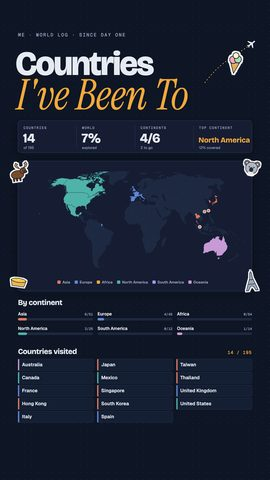
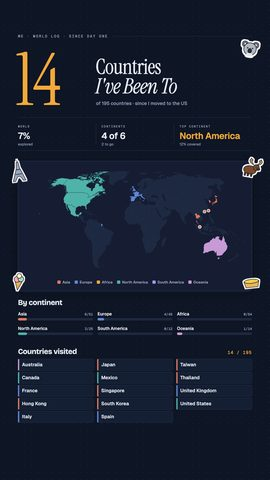
Atlas designs: calmer editorial header
Hero serif numeral, single-typeface serif title, hairline stat row
instead of the boxed board; removed the dotted plane arc. Applies to
Sticker, Skyline and World Atlas (light and dark).

diff --git a/generator/index.html b/generator/index.html
@@ -1525,19 +1525,26 @@ function shield(g,x,y,num,s=1,c1="#1d4f91",c2="#d23b3b"){const k=g.append("g").a
  k.append("path").attr("d","M-30,-30 Q0,-40 30,-30 Q34,10 0,36 Q-34,10 -30,-30Z").attr("fill","#ffffff").attr("stroke","#1f2433").attr("stroke-width",2.5);
  k.append("path").attr("d","M-25,-14 L25,-14 Q24,8 0,28 Q-24,8 -25,-14Z").attr("fill",c1);k.append("path").attr("d","M-26,-26 Q0,-34 26,-26 L25,-16 L-25,-16Z").attr("fill",c2);
  T(k,0,14,`${num}`,{f:DISP,w:800,s:26,c:"#ffffff",a:"middle"});return k;}
+
+/* Editorial header: hero numeral + serif title + hairline stat row */
+function edHeader(P,eyebrow,num,title,sub,stats){
+ const ey=T(svg,72,150,eyebrow,{f:MONO,w:500,s:15,ls:3,c:P.muted});const ew=ey.node().getComputedTextLength();
+ svg.append("line").attr("x1",72+ew+18).attr("x2",1008).attr("y1",145).attr("y2",145).attr("stroke",P.line).attr("stroke-width",1.2);
+ const hn=T(svg,64,420,String(num),{f:SERIF2,w:400,s:290,ls:-6,c:P.amber});const nw=hn.node().getComputedTextLength();
+ const tx=64+nw+40,tw=1008-tx,[l1,l2]=splitTitle(title);
+ const ts=l2?84:96;fitT(T(svg,tx,l2?296:330,l1,{f:SERIF2,w:400,s:ts,ls:-1.5,c:P.ink}),tw,ts);if(l2)fitT(T(svg,tx,374,l2,{f:SERIF2,i:true,w:400,s:ts,ls:-1.5,c:P.ink}),tw,ts);
+ fitT(T(svg,tx+2,420,sub,{f:PLEX,w:500,s:19,c:P.muted}),tw,19);
+ const y0=470,cw=936/stats.length;svg.append("line").attr("x1",72).attr("x2",1008).attr("y1",y0).attr("y2",y0).attr("stroke",P.line).attr("stroke-width",1.2);
+ svg.append("line").attr("x1",72).attr("x2",1008).attr("y1",y0+132).attr("y2",y0+132).attr("stroke",P.line).attr("stroke-width",1.2);
+ stats.forEach(([k,v,s,hi],i)=>{const x=72+i*cw+(i?22:0);if(i)svg.append("line").attr("x1",72+i*cw).attr("x2",72+i*cw).attr("y1",y0+22).attr("y2",y0+110).attr("stroke",P.line).attr("stroke-width",1.2);
+  T(svg,x,y0+40,k,{f:MONO,w:500,s:12,ls:2.4,c:P.muted});fitT(T(svg,x,y0+86,v,{f:PLEX,w:600,s:36,ls:-.5,c:hi?P.amber:P.ink}),cw-34,36);T(svg,x,y0+112,s,{f:PLEX,w:400,s:15,c:P.muted});});}
 function stickerAtlas(P){const ST=STATS(),R=P.R||MOD.R,F=stickerFilter(5);
  bg(P.bg);const dp=defs.append("pattern").attr("id","adots"+uid).attr("width",28).attr("height",28).attr("patternUnits","userSpaceOnUse");dp.append("circle").attr("cx",14).attr("cy",14).attr("r",1.3).attr("fill",P.line);
  svg.append("rect").attr("width",1080).attr("height",1920).attr("fill",`url(#adots${uid++})`).attr("opacity",.8);
  const sh=shadow(0,8,18,"#0b1220",P.dark?.35:.07);
  // header
- T(svg,72,146,`${CONFIG.name.toUpperCase()}  ·  STATES LOG  ·  ${CONFIG.sinceShort.toUpperCase()}`,{f:MONO,w:500,s:19,ls:3,c:P.muted});
- const [l1,l2]=splitTitle(CONFIG.title);
- fitT(T(svg,62,300,l1,{f:DISP,w:800,s:136,ls:-5,c:P.ink}),780,136);fitT(T(svg,66,438,l2||"",{f:SERIF2,i:true,w:400,s:168,c:P.amber}),780,168);
- // board
- const by=482;svg.append("rect").attr("x",72).attr("y",by).attr("width",936).attr("height",128).attr("rx",12).attr("fill",P.surf).attr("stroke",P.line).attr("stroke-width",1.5).attr("filter",sh);
- [["STATES",`${N}`,"of 50"],["COVERAGE",`${ST.pct}%`,"of the US"],["REGIONS",`${ST.ra}/5`,ST.ra===5?"all active":`${5-ST.ra} to go`],["TOP REGION",ST.top,`${Math.round(ST.tp*100)}% covered`]].forEach(([k,v,s],i)=>{const x=72+i*234;
-  if(i)svg.append("line").attr("x1",x).attr("x2",x).attr("y1",by+18).attr("y2",by+110).attr("stroke",P.line).attr("stroke-width",1.5);
-  T(svg,x+22,by+34,k,{f:MONO,w:500,s:14,ls:2,c:P.muted});fitT(T(svg,x+20,by+88,v,{f:DISP,w:700,s:54,c:i===3?P.amber:P.ink}),200,54);T(svg,x+22,by+114,s,{f:PLEX,s:15,c:P.muted});});
+ edHeader(P,`${CONFIG.name.toUpperCase()}  ·  STATES LOG  ·  ${CONFIG.sinceShort.toUpperCase()}`,N,CONFIG.title,`of 50 states  ·  ${CONFIG.since}`,
+  [["COVERAGE",`${ST.pct}%`,"of the US"],["REGIONS",`${ST.ra} of 5`,ST.ra===5?"all active":`${5-ST.ra} to go`],["TOP REGION",ST.top,`${Math.round(ST.tp*100)}% covered`,true],["CITIES",`${CONFIG.cities.length}`,"logged"]]);
  // map card (narrower so stickers live in the margins, never on the map)
  const my=644,mh=560;svg.append("rect").attr("x",150).attr("y",my).attr("width",780).attr("height",mh).attr("rx",14).attr("fill",P.surf).attr("stroke",P.line).attr("stroke-width",1.5).attr("filter",sh);
  const m=map(svg,[176,my+34,728,mh-110],{fill:(n,v)=>v?R[REG(n)]:P.un,stroke:(n,v)=>v?P.surf:P.unS,sw:(n,v)=>v?1.8:1.1});allLabels(m,"#ffffff",P.unLab,PLEX,12);
@@ -1557,12 +1564,12 @@ function stickerAtlas(P){const ST=STATS(),R=P.R||MOD.R,F=stickerFilter(5);
   sk.append("line").attr("x1",60).attr("x2",1020).attr("y1",base).attr("y2",base).attr("stroke",P.ink).attr("stroke-width",2.4);
   const nm=S.names.map(n=>n[1]),h=nm.length>6?Math.ceil(nm.length/2):nm.length,st={f:MONO,w:500,s:14,ls:2,c:P.muted,a:"middle"};
   nameLines(nm,base+30,22,st);
-  const slots=[[890,240,1.45,8],[1000,390,1.0,-8],[76,700,1.0,-10],[1004,700,1.0,10],[76,900,.95,8],[1004,920,.95,-6],[76,1100,.95,-6],[1004,1130,.95,8]];
+  const slots=[[1000,196,.9,8],[76,700,1.0,-10],[1004,700,1.0,10],[76,900,.95,8],[1004,920,.95,-6],[76,1100,.95,-6],[1004,1130,.95,8]];
   stickerLayer(m,slots,F,.5);return;}
  const hy=ly+64+per*th;{const ct=T(svg,72,hy+6,"Cities",{f:DISP,w:700,s:28,ls:-.5,c:P.ink});shield(svg,72+ct.node().getComputedTextLength()+30,hy-4,N,.62);}
  highwaySigns(svg,CONFIG.cities,72,hy+26,936,{colorFn:lab=>{const DBc=window.CITY_DB||{};for(const st in DBc)if(DBc[st].some(([n])=>n.toUpperCase()===lab))return (P.R||MOD.R)[REG(st)];return P.amber;},maxRows:Math.max(1,Math.min(3,Math.floor((1880-hy-26)/70)))});
  // stickers around the map + top-right corner
- const slots=[[890,240,1.45,8],[1000,390,1.0,-8],[76,700,1.0,-10],[1004,700,1.0,10],[76,900,.95,8],[1004,920,.95,-6],[76,1100,.95,-6],[1004,1130,.95,8]];
+ const slots=[[1000,196,.9,8],[76,700,1.0,-10],[1004,700,1.0,10],[76,900,.95,8],[1004,920,.95,-6],[76,1100,.95,-6],[1004,1130,.95,8]];
  stickerLayer(m,slots,F,.5);
 }
 const ATLAS={light:{bg:"#eef1f5",surf:"#ffffff",ink:"#17223a",muted:"#5d6a82",line:"#cfd6e1",amber:"#c9761a",un:"#eef1f6",unS:"#d6dce6",unLab:"#a3adbd"},
@@ -1615,7 +1622,8 @@ function wTiles(P,WD,y0,yEnd,cols,colsC){const per=Math.ceil(WD.n/cols),th=Math.
   svg.append("rect").attr("x",x).attr("y",y).attr("width",5).attr("height",th-6).attr("rx",2).attr("fill",colsC[WD.cont[n]]);
   fitT(T(svg,x+16,y+(th-6)/2+6,n,{f:PLEX,w:600,s:Math.min(19,th*.45),c:P.ink}),tw-28,19);});}
 function worldAtlas(P){const WD=W(),C=P.dark?CCOL_D:CCOL,sh=shadow(0,8,18,"#0b1220",P.dark?.35:.07);
- dotBg(P.bg,P.line);wHeader(P,WD,`${CONFIG.name.toUpperCase()}  ·  WORLD LOG  ·  ${CONFIG.sinceShort.toUpperCase()}`,wTitle());wBoard(P,WD,482,sh);
+ dotBg(P.bg,P.line);edHeader(P,`${CONFIG.name.toUpperCase()}  ·  WORLD LOG  ·  ${CONFIG.sinceShort.toUpperCase()}`,WD.n,wTitle(),`of 195 countries  ·  ${CONFIG.since}`,
+  [["WORLD",`${WD.pct}%`,"explored"],["CONTINENTS",`${WD.active} of 6`,WD.active===6?"all six":`${6-WD.active} to go`],["TOP CONTINENT",WD.top,`${Math.round(WD.tp*100)}% covered`,true]]);
  svg.append("rect").attr("x",72).attr("y",644).attr("width",936).attr("height",520).attr("rx",14).attr("fill",P.surf).attr("stroke",P.line).attr("stroke-width",1.5).attr("filter",sh);
  const wm=worldMap(svg,[96,672,888,420],{fill:k=>C[k],un:P.un,vStroke:P.surf,unStroke:P.unS});
  let lx=0;const ms=svg.append("text").attr("font-family",PLEX).attr("font-size",15).attr("font-weight",600).attr("opacity",0);const ws=CONTS.map(k=>{ms.text(k);return ms.node().getComputedTextLength()+38;});ms.remove();
@@ -1626,7 +1634,7 @@ function worldAtlas(P){const WD=W(),C=P.dark?CCOL_D:CCOL,sh=shadow(0,8,18,"#0b12
   svg.append("rect").attr("x",x).attr("y",y+28).attr("width",300).attr("height",10).attr("rx",5).attr("fill",P.un);svg.append("rect").attr("x",x).attr("y",y+28).attr("width",Math.max(v?10:0,300*v/tt)).attr("height",10).attr("rx",5).attr("fill",C[k]);});
  T(svg,72,1416,"Countries visited",{f:DISP,w:700,s:30,ls:-.5,c:P.ink});T(svg,1008,1416,`${WD.n} / 195`,{f:MONO,w:500,s:17,ls:2,c:P.amber,a:"end"});
  wTiles(P,WD,1436,1870,WD.n>24?4:3,C);
- wStickerLayer(wm,[[1006,672,.85,10],[74,690,.85,-8],[1006,1130,.8,-6],[74,1126,.8,8],[940,250,1.0,8]],.36);}
+ wStickerLayer(wm,[[1000,196,.9,8],[1006,672,.85,10],[74,690,.85,-8],[1006,1130,.8,-6],[74,1126,.8,8]],.36);}
 
 function vSheetW(){bg("#eef1f5");const F=stickerFilter(5);const all=[...STICKER_COUNTRIES.slice().sort(),"Kazakhstan","Estonia","Uruguay","Samoa"];
  const pg=+(location.hash.match(/pg=(\d)/)||[0,0])[1],per=50,list=all.slice(pg*per,pg*per+per);

diff --git a/index.html b/index.html
@@ -334,7 +334,7 @@ $("modeBar").addEventListener("click",e=>{const b=e.target.closest("button[data-
 
 
 /* ---- sticker picker ---- */
-const SPOTS={80:5,81:5,82:4,83:3,72:8,73:8,74:8,75:8,58:4,63:4,56:4,69:3,65:4,66:2,67:3,68:3,70:4,71:2,55:3};
+const SPOTS={80:5,81:5,82:4,83:3,72:7,73:7,74:7,75:7,58:4,63:4,56:4,69:3,65:4,66:2,67:3,68:3,70:4,71:2,55:3};
 function stickerOrder(){if(S.mode==="world"){const have=new Set(window.STICKER_COUNTRIES||[]),L=[...S.countries].sort();return [...L.filter(c=>have.has(c)),...L.filter(c=>!have.has(c))];}const cs=[];S.cities.forEach(x=>{if(!cs.includes(x.s))cs.push(x.s);});const pr=window.STICKER_PRIORITY||[];
  return [...cs,...pr].filter((s,i,a)=>S.states.has(s)&&a.indexOf(s)===i);}
 const offKey=s=>S.mode==="world"?"c:"+s:s;
